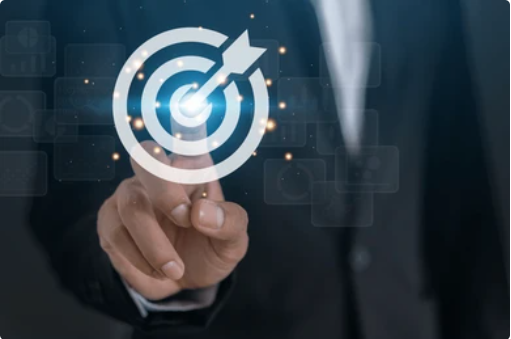
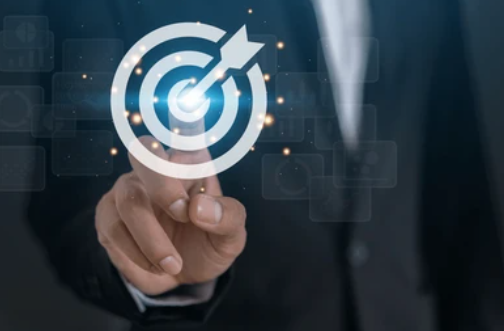
about us image fixed

diff --git a/about.html b/about.html
@@ -64,11 +64,16 @@
         min-width: 200px;          
       }
 
+
 .about-image img {
-    width: 500px;  /* Fixed width; adjust down (e.g., 200px) */
-    height: 300px;  /* Fixed height; or use 'auto' to avoid cropping */
-    object-fit: cover;  /* Optional: Crops to fill without distortion if height is fixed */
+    width: 100%;
+    height: auto;
+    object-fit: cover;
     border-radius: 10px;
+    display: block;
+    max-width: 340px;  /* Reduced from 500px → smaller, better proportion */
+    margin: 0 auto;    /* Centers the image if it's narrower than container */
+
 }
       body {
         cursor: none;
@@ -276,6 +281,69 @@
 * {
       font-family: 'Lora', serif;
     }
+
+    /* Responsive styles for about sections only - desktop unchanged */
+    @media (max-width: 768px) {
+        .about-content {
+            flex-direction: column !important;
+            align-items: center !important;
+            text-align: center !important;
+            gap: 30px !important;
+        }
+
+        .about-text,
+        .about-image {
+            flex: 1 1 100% !important;
+            min-width: 100% !important;
+            width: 100% !important;
+        }
+
+        .about-section:nth-child(odd) .about-image {
+            order: -1; /* Image first on odd sections for alternating feel */
+        }
+
+        .about-image img {
+            max-width: 100% !important;
+            width: 100% !important;
+            height: auto !important;
+        }
+
+        body {
+            cursor: auto !important;
+        }
+
+        .glow-cursor {
+            display: none !important;
+        }
+
+        .about-section h2 {
+            font-size: 1.8em !important;
+            margin-bottom: 30px !important;
+        }
+
+        .about-section p {
+            font-size: 1em !important;
+            line-height: 1.6 !important;
+        }
+    }
+
+    @media (max-width: 480px) {
+        .about-content {
+            padding: 0 3% !important;
+            gap: 20px !important;
+        }
+
+        .about-section h2 {
+            font-size: 1.6em !important;
+        }
+    }
+
+    .contact-info-item img {
+      width: 30px;          /* adjust size as needed */
+      height: auto;
+      vertical-align: middle;
+      margin-right: 8px;
+    }
     </style>
 </head>
 
@@ -314,7 +382,7 @@
     </p>
   </div>
 <div class="about-image">
-      <img src="images/about.jpg" alt="Executive Summary Image">
+      <img src="images/Aboutusimg.jpg" alt="Executive Summary Image">
     </div>
     </div>
     </div>
@@ -567,14 +635,6 @@ document.querySelectorAll(".about-section").forEach((section, index) => {
       </div>
     </div>
   </div>
-  <style>
-    .contact-info-item img {
-  width: 30px;          /* adjust size as needed */
-  height: auto;
-  vertical-align: middle;
-  margin-right: 8px;
-}
-  </style>
 
 <script>
 document.addEventListener("DOMContentLoaded", () => {
@@ -584,18 +644,21 @@ document.addEventListener("DOMContentLoaded", () => {
 
   // Open modal
   openBtn.addEventListener("click", () => {
+    modal.style.display = "flex";
     modal.classList.add("active");
   });
 
   // Close modal on ×
   closeBtn.addEventListener("click", () => {
     modal.classList.remove("active");
+    setTimeout(() => { modal.style.display = "none"; }, 300);
   });
 
   // Close modal when clicking outside content
   window.addEventListener("click", (e) => {
     if (e.target === modal) {
       modal.classList.remove("active");
+      setTimeout(() => { modal.style.display = "none"; }, 300);
     }
   });
 });
